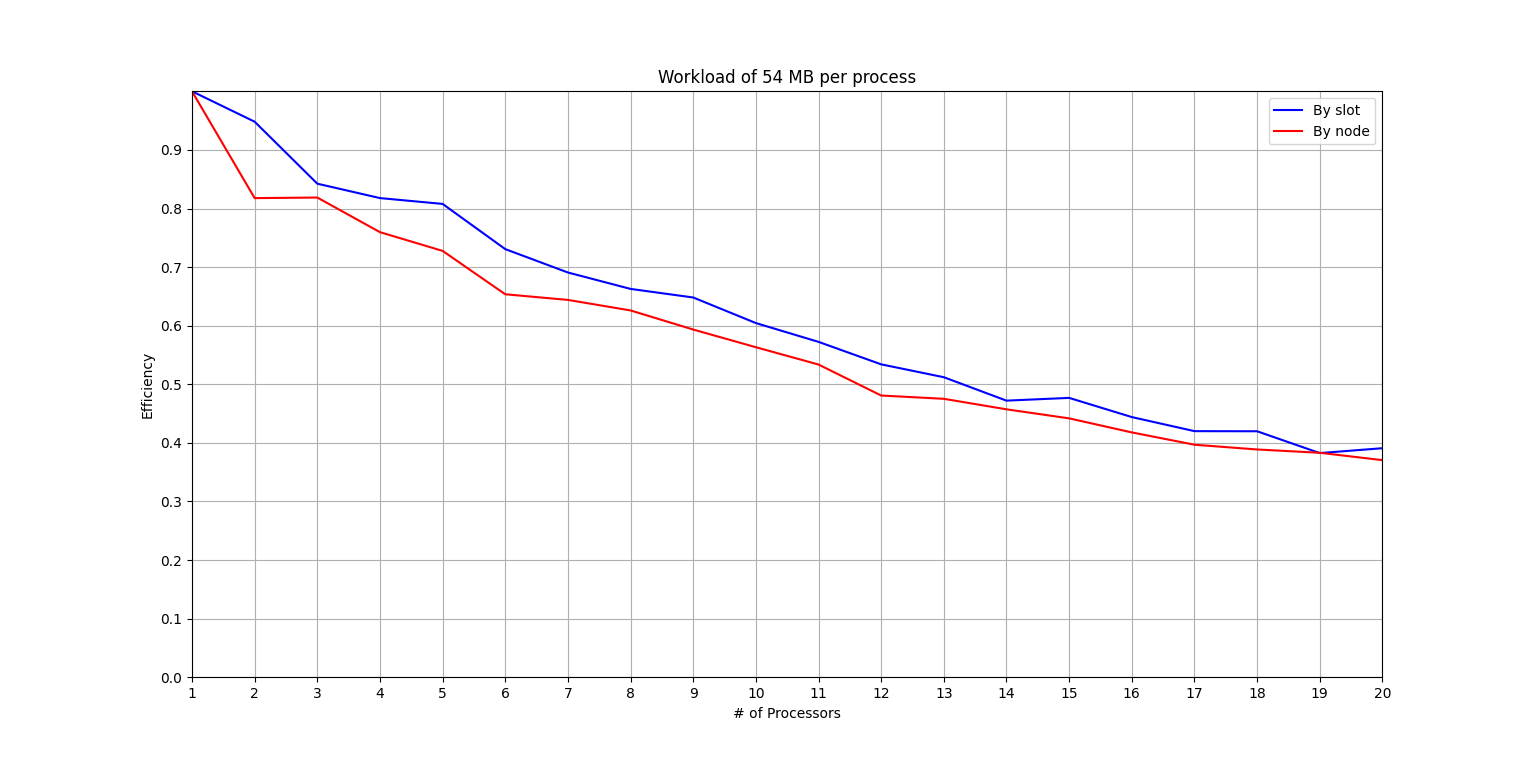
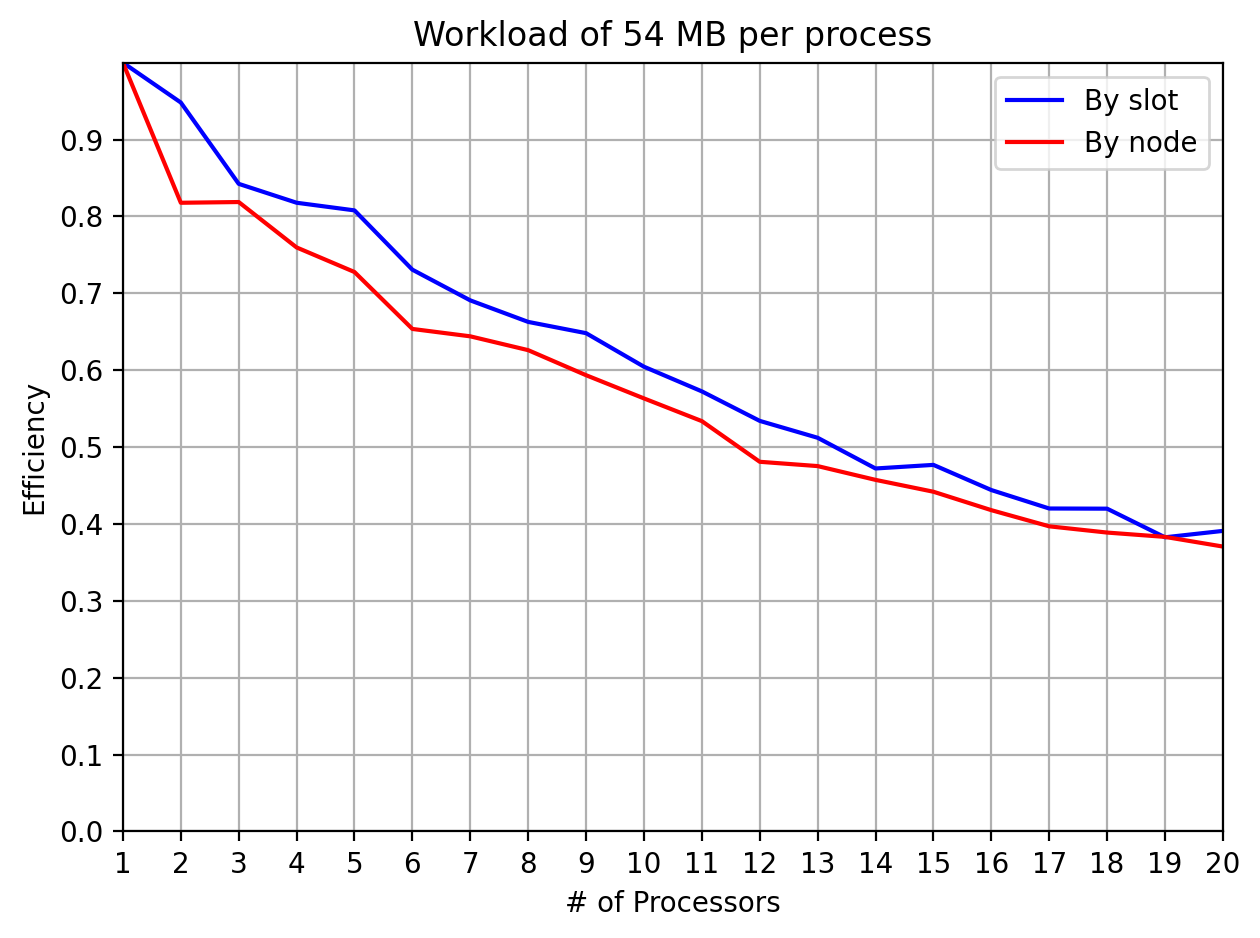
Added graphics

Changed region(s): [[0.0, 0.0, 0.9905, 0.9974], [0.1857, 0.0604, 0.2476, 0.0907]]

diff --git a/scripts/processing_data.py b/scripts/processing_data.py
@@ -23,6 +23,9 @@ plt.xticks(proc)
 plt.yticks(np.arange(0, 21, 1.5))
 plt.legend()
 plt.grid()
+plt.tight_layout()
+plt.savefig("strong_first_case_time.png", bbox_inches='tight', dpi=200)
+
 
 # Speedup
 plt.figure(2)
@@ -36,6 +39,8 @@ plt.yticks(np.arange(0, 7, 0.5))
 plt.xticks(proc)
 plt.legend()
 plt.grid()
+plt.tight_layout()
+plt.savefig("strong_first_case_speedup.png", bbox_inches='tight', dpi=200)
 
 # Second case: N = 1.2 GB
 
@@ -58,6 +63,8 @@ plt.xticks(proc)
 plt.yticks(np.arange(0, 31, 1.5))
 plt.legend()
 plt.grid()
+plt.tight_layout()
+plt.savefig("strong_second_case_time.png", bbox_inches='tight', dpi=200)
 
 # Speedup
 plt.figure(4)
@@ -71,6 +78,8 @@ plt.yticks(np.arange(0, 9, 0.5))
 plt.xticks(proc)
 plt.legend()
 plt.grid()
+plt.tight_layout()
+plt.savefig("strong_second_case_speedup.png", bbox_inches='tight', dpi=200)
 
 # Weak
 # First case: N = 17.7 MB
@@ -93,6 +102,8 @@ plt.xticks(proc)
 plt.yticks(np.arange(0, 7, 0.5))
 plt.legend()
 plt.grid()
+plt.tight_layout()
+plt.savefig("weak_first_case_time.png", bbox_inches='tight', dpi=200)
 
 # Efficiency
 plt.figure(6)
@@ -106,6 +117,8 @@ plt.xticks(proc)
 plt.yticks(np.arange(0, 1, 0.15))
 plt.legend()
 plt.grid()
+plt.tight_layout()
+plt.savefig("weak_first_case_efficiency.png", bbox_inches='tight', dpi=200)
 
 # Second case: N = 54 MB
 data = pd.read_csv("./data/weak_second_case.csv", sep=";")
@@ -127,6 +140,8 @@ plt.xticks(proc)
 plt.yticks(np.arange(0, 7, 0.5))
 plt.legend()
 plt.grid()
+plt.tight_layout()
+plt.savefig("weak_second_case_time.png", bbox_inches='tight', dpi=200)
 
 # Efficiency
 plt.figure(8)
@@ -140,6 +155,8 @@ plt.xticks(proc)
 plt.yticks(np.arange(0, 1, 0.10))
 plt.grid()
 plt.legend()
+plt.tight_layout()
+plt.savefig("weak_second_case_efficiency.png", bbox_inches='tight', dpi=200)
 
 
 plt.show()

diff --git a/README.md b/README.md
@@ -845,10 +845,101 @@ Hello World I am rank 7 of 8 running on node1
 | 16   | 4.51         | 4.75         | 3.09            | 2.94            |
 
 </br>
+<img src="./images/benchmark/strong_first_case_time.png">
+<img src="./images/benchmark/strong_first_case_speedup.png">
 
-<img src="images/benchmark/strong_first_case_time.png">
+### **N = 1.2 GB**
+| \# P | Time (s) By slot | Time (s) By node | Speedup By slot | Speedup By node |
+| ---- | ------------ | ------------ | --------------- | --------------- |
+| 1    | 29.62        | 29.61        | 1.00            | 1.00            |
+| 2    | 15.28        | 14.85        | 1.94            | 1.99            |
+| 3    | 10.29        | 10.31        | 2.88            | 2.87            |
+| 4    | 8.58         | 8.78         | 3.45            | 3.37            |
+| 5    | 7.45         | 7.15         | 3.98            | 4.14            |
+| 6    | 6.38         | 6.51         | 4.64            | 4.55            |
+| 7    | 5.87         | 5.98         | 5.05            | 4.95            |
+| 8    | 5.98         | 5.56         | 4.95            | 5.33            |
+| 9    | 5.43         | 5.18         | 5.46            | 5.72            |
+| 10   | 5.05         | 5.08         | 5.86            | 5.83            |
+| 11   | 5.07         | 4.98         | 5.85            | 5.94            |
+| 12   | 5.04         | 4.98         | 5.88            | 5.95            |
+| 13   | 5.17         | 5.09         | 5.73            | 5.82            |
+| 14   | 5.14         | 5.13         | 5.76            | 5.77            |
+| 15   | 5.23         | 5.37         | 5.67            | 5.52            |
+| 16   | 5.40         | 5.20         | 5.48            | 5.70            |
+
+</br>
+<img src="./images/benchmark/strong_second_case_time.png">
+<img src="./images/benchmark/strong_second_case_speedup.png">
 
 ## **Scalabilità debole**
+### **Workload di 17.7 MB per processore**
+| \# P | N (MB) | Time (s) By slot | Efficiency By slot | Time (s) By node | Efficiency By node |
+| ---- | ------ | ------------ | ------------------ | ------------ | ------------------ |
+| 1    | 17.7   | 0.88         | 1.00               | 0.87         | 1.00               |
+| 2    | 35.4   | 0.93         | 0.94               | 1.04         | 0.83               |
+| 3    | 53.1   | 0.99         | 0.88               | 1.05         | 0.82               |
+| 4    | 70.8   | 1.13         | 0.78               | 1.24         | 0.70               |
+| 5    | 88.5   | 1.32         | 0.67               | 1.42         | 0.61               |
+| 6    | 106.2  | 1.38         | 0.64               | 1.40         | 0.62               |
+| 7    | 123.9  | 1.31         | 0.67               | 1.40         | 0.62               |
+| 8    | 141.6  | 1.42         | 0.62               | 1.51         | 0.57               |
+| 9    | 159.3  | 1.56         | 0.56               | 1.62         | 0.54               |
+| 10   | 177    | 1.70         | 0.52               | 1.90         | 0.46               |
+| 11   | 194.7  | 1.78         | 0.49               | 1.91         | 0.45               |
+| 12   | 212.4  | 1.93         | 0.45               | 2.11         | 0.41               |
+| 13   | 230.1  | 2.05         | 0.43               | 2.38         | 0.36               |
+| 14   | 247.8  | 2.55         | 0.34               | 2.21         | 0.39               |
+| 15   | 265.5  | 2.22         | 0.40               | 2.38         | 0.36               |
+| 16   | 283.2  | 2.59         | 0.34               | 2.74         | 0.32               |
+| 17   | 300.9  | 3.03         | 0.29               | 2.99         | 0.29               |
+| 18   | 318.6  | 2.93         | 0.30               | 3.26         | 0.27               |
+| 19   | 336.3  | 3.19         | 0.28               | 3.17         | 0.27               |
+| 20   | 354    | 3.06         | 0.29               | 3.03         | 0.29               |
+| 21   | 371.7  | 2.99         | 0.29               | 3.14         | 0.28               |
+| 22   | 389.4  | 3.33         | 0.26               | 3.33         | 0.26               |
+| 23   | 407.1  | 3.20         | 0.27               | 3.24         | 0.27               |
+| 24   | 424.8  | 3.74         | 0.23               | 3.51         | 0.25               |
+| 25   | 442.5  | 3.81         | 0.23               | 3.78         | 0.23               |
+| 26   | 460.2  | 4.11         | 0.21               | 4.37         | 0.20               |
+| 27   | 477.9  | 5.06         | 0.17               | 4.89         | 0.18               |
+| 28   | 495.6  | 4.89         | 0.18               | 4.84         | 0.18               |
+| 29   | 513.3  | 4.72         | 0.19               | 4.87         | 0.18               |
+| 30   | 531    | 5.81         | 0.15               | 5.90         | 0.15               |
+| 31   | 548.7  | 6.02         | 0.15               | 6.33         | 0.14               |
+| 32   | 566.4  | 4.93         | 0.18               | 4.97         | 0.17               |
+
+</br>
+<img src="./images/benchmark/weak_first_case_time.png">
+<img src="./images/benchmark/weak_first_case_efficiency.png">
+
+### **Workload di 54 MB per processore**
+| \# P | N (MB) | Time (s) By slot | Efficiency By slot | Time (s) By node | Efficiency By node |
+| ---- | ------ | ------------ | ------------------ | ------------ | ------------------ |
+| 1    | 54     | 1.73         | 1.00               | 1.68         | 1.00               |
+| 2    | 108    | 1.83         | 0.95               | 2.05         | 0.82               |
+| 3    | 162    | 2.05         | 0.84               | 2.05         | 0.82               |
+| 4    | 216    | 2.12         | 0.82               | 2.21         | 0.76               |
+| 5    | 270    | 2.14         | 0.81               | 2.30         | 0.73               |
+| 6    | 324    | 2.37         | 0.73               | 2.57         | 0.65               |
+| 7    | 378    | 2.51         | 0.69               | 2.60         | 0.64               |
+| 8    | 432    | 2.61         | 0.66               | 2.68         | 0.63               |
+| 9    | 486    | 2.67         | 0.65               | 2.83         | 0.59               |
+| 10   | 540    | 2.86         | 0.60               | 2.98         | 0.56               |
+| 11   | 594    | 3.02         | 0.57               | 3.14         | 0.53               |
+| 12   | 648    | 3.24         | 0.53               | 3.49         | 0.48               |
+| 13   | 702    | 3.38         | 0.51               | 3.53         | 0.48               |
+| 14   | 756    | 3.67         | 0.47               | 3.67         | 0.46               |
+| 15   | 810    | 3.63         | 0.48               | 3.80         | 0.44               |
+| 16   | 864    | 3.90         | 0.44               | 4.01         | 0.42               |
+| 17   | 918    | 4.12         | 0.42               | 4.23         | 0.40               |
+| 18   | 972    | 4.12         | 0.42               | 4.31         | 0.39               |
+| 19   | 1026   | 4.52         | 0.38               | 4.38         | 0.38               |
+| 20   | 1080   | 4.43         | 0.39               | 4.53         | 0.37               |
+
+</br>
+<img src="./images/benchmark/weak_second_case_time.png">
+<img src="./images/benchmark/weak_second_case_efficiency.png">
 
 ## **Descrizione dei risultati**
 
